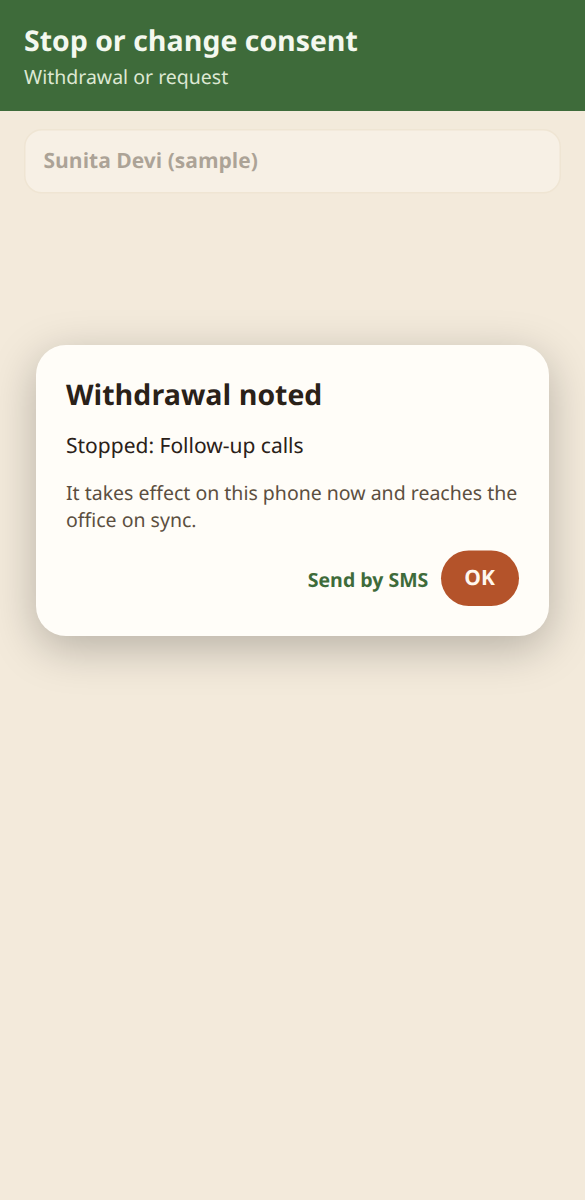
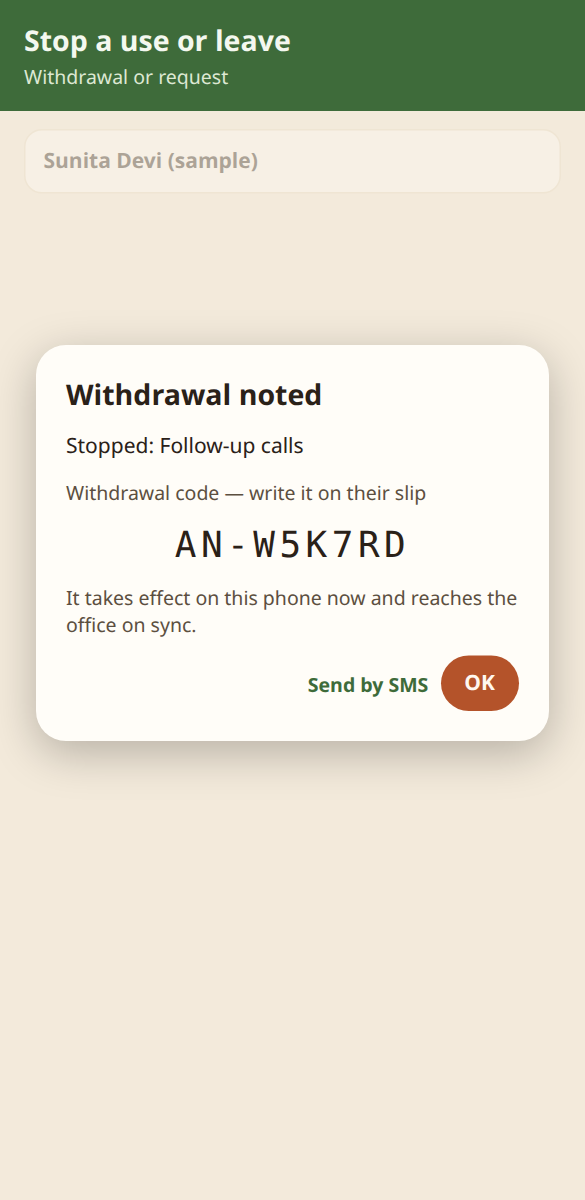
Guide and QA: renamed field screens, withdrawal code, rejoin rule
"Stop a use or leave" and "Add a use or rejoin" replace the old names;
Withdrawal noted shows a withdrawal code and SMS goes to the guardian for
a child; leaving greys every use; Find offers both actions; slip box at the
bottom; Yes/No to all and the rejoin rule. QA: WD-01, WD-11 and AP cases
updated; WD-13..16, AP-08, AP-09 added. Base wireframes redrawn.

Claude-Session: https://claude.ai/code/session_019TCFjXTZe15Bd8jrQ1rU3g

Changed region(s): [[0.0308, 0.4008, 0.9538, 0.6475], [0.1538, 0.0308, 0.6154, 0.0617]]

diff --git a/tools/guide_wireframes.py b/tools/guide_wireframes.py
@@ -118,8 +118,8 @@ SCREENS = {
 <div class="card"><div class="row">3 records on this phone<span class="st">Sync</span></div><div class="muted">Sync when you have data</div></div>
 <div class="muted">Programme</div><div class="card" style="flex-direction:row;justify-content:space-between"><span>Village Health Camps</span><span style="color:#B4532A;font-size:13px">Change</span></div>
 <div class="tile"><span class="ic">+</span><div><div class="t">Take new consent</div><div class="d">Self, assisted or guardian</div></div></div>
-<div class="tile"><span class="ic">×</span><div><div class="t">Stop or change consent</div><div class="d">Told in person, slip or letter</div></div></div>
-<div class="tile"><span class="ic">↺</span><div><div class="t">Ask for one more purpose</div><div class="d">Existing beneficiary, new use</div></div></div>
+<div class="tile"><span class="ic">×</span><div><div class="t">Stop a use or leave</div><div class="d">In person, slip or letter</div></div></div>
+<div class="tile"><span class="ic">↺</span><div><div class="t">Add a use or rejoin</div><div class="d">A new use, a change of mind, or rejoining</div></div></div>
 <div class="tile"><span class="ic">⌕</span><div><div class="t">Find beneficiary</div><div class="d">See consent status offline</div></div></div>
 </div>""",
     "a1-who": bar("Who is giving consent?", "Step 1 of 3") + f"""<div class="body">{who("self")}
@@ -230,29 +230,30 @@ SCREENS = {
 <div class="h">Gender (optional)</div><div class="chips"><span class="chip on">Female</span><span class="chip">Male</span><span class="chip">Other</span><span class="chip">Prefer not to say</span></div>
 <div class="h">Occupation (optional)</div><div class="chips"><span class="chip">Farming or farm labour</span><span class="chip on">Daily wage work</span><span class="chip">Homemaker</span><span class="chip">Self-employed</span><span class="chip">Other</span></div>
 <div class="note">These are listed in the notice under “What we collect”. Reports show only totals, never one person's answers.</div></div>""" + foot("Continue"),
-    "f1-withdraw": bar("Stop or change consent", "Withdrawal or request") + """<div class="body">
+    "f1-withdraw": bar("Stop a use or leave", "Withdrawal or request") + """<div class="body">
 <div class="field"><span>Receipt code, name, ID or phone</span><b>AN-7K2Q9C</b></div>
-<div class="check"><span class="box on"></span><div>They gave a paper slip or letter</div></div>
-<div class="field"><span>Paper slip number (optional)</span><b>SLIP-0042</b></div>
 <div class="card" style="border-color:#B4532A"><b>Sunita Devi (sample)</b><div class="muted">AC-4XK2M9PQ · AN-7K2Q9C</div></div>
 <div class="row" style="font-weight:400"><span class="muted">Switch off what they no longer agree to</span><span class="link">Stop all</span></div>
 <div class="p"><div><div class="t">Follow-up calls</div><div class="d" style="color:#9E2F24">Will stop</div></div><span class="sw"></span></div>
 <div class="p"><div><div class="t">Photos and stories</div><div class="d">On</div></div><span class="sw on"></span></div>
 <div class="p req"><div><div class="t">🔒 Health screening</div><div class="d">Needed for the programme. To stop it, they leave the programme.</div></div></div>
 <div class="out" style="color:#9E2F24;border-color:#9E2F24">⎋ Leave the programme</div>
-<div class="muted">Other requests: See or correct my data · Delete my data · Complaint</div></div>""" + foot("Stop 1 use for Sunita Devi (sample)"),
-    "f2-leave": bar("Stop or change consent", "Withdrawal or request") + """<div class="body" style="opacity:.35">
+<div class="muted">Other requests: See or correct my data · Delete my data · Complaint</div>
+<div class="check"><span class="box on"></span><div>They gave a paper slip or letter</div></div>
+<div class="field"><span>Paper slip number (optional)</span><b>SLIP-0042</b></div></div>""" + foot("Stop 1 use for Sunita Devi (sample)"),
+    "f2-leave": bar("Stop a use or leave", "Withdrawal or request") + """<div class="body" style="opacity:.35">
 <div class="card"><b>Sunita Devi (sample)</b><div class="muted">AC-4XK2M9PQ · AN-7K2Q9C</div></div>
 <div class="p"><div><div class="t">Follow-up calls</div></div><span class="sw on"></span></div></div>
 <div style="position:absolute;left:24px;right:24px;top:230px;background:#FFFDF8;border-radius:20px;padding:20px;display:flex;flex-direction:column;gap:12px;box-shadow:0 8px 30px rgba(0,0,0,.25)">
 <div style="font-size:19px;font-weight:600">Leave the programme?</div>
 <div style="font-size:14px">This stops every use of their data in this programme, essential ones too. The programme stops serving them. Do they still want this?</div>
 <div class="row" style="justify-content:flex-end"><span class="link" style="text-decoration:none">Cancel</span><span class="cta" style="padding:9px 16px;font-size:14px">Yes, leave</span></div></div>""",
-    "f3-noted": bar("Stop or change consent", "Withdrawal or request") + """<div class="body" style="opacity:.35">
+    "f3-noted": bar("Stop a use or leave", "Withdrawal or request") + """<div class="body" style="opacity:.35">
 <div class="card"><b>Sunita Devi (sample)</b></div></div>
 <div style="position:absolute;left:24px;right:24px;top:230px;background:#FFFDF8;border-radius:20px;padding:20px;display:flex;flex-direction:column;gap:12px;box-shadow:0 8px 30px rgba(0,0,0,.25)">
 <div style="font-size:19px;font-weight:600">Withdrawal noted</div>
 <div style="font-size:14px">Stopped: Follow-up calls</div>
+<div class="muted">Withdrawal code — write it on their slip</div><div class="code" style="font-size:24px">AN-W5K7RD</div>
 <div class="muted">It takes effect on this phone now and reaches the office on sync.</div>
 <div class="row" style="justify-content:flex-end"><span class="link" style="text-decoration:none">Send by SMS</span><span class="cta" style="padding:9px 16px;font-size:14px">OK</span></div></div>""",
 }

diff --git a/docs/guide/product-guide.md b/docs/guide/product-guide.md
@@ -71,8 +71,8 @@ Each role sees only its own menus. A field worker can't open the web console at 
 | Extra questions | "About the person" screen, only when the programme switches questions on |
 | Receipt code | A code like `AN-7K2Q9C` to write on the slip; optional SMS receipt from the worker's phone |
 | Server-sent code | After Save, online: the server texts a code to the person's phone; the worker never sees it |
-| **Stop or change consent** | In person, or with a paper slip or letter: switch off any of the uses that are on (or Stop all), **leave the programme**, or log a request (see or correct data, delete data, complaint) |
-| **Ask for one more purpose** | A later visit: a new use, a use they withdrew or refused (**Ask again**), or rejoining after leaving; uses already agreed are not asked again |
+| **Stop a use or leave** | In person, or with a paper slip or letter: switch off any of the uses that are on (or Stop all / Keep all), **leave the programme**, or log a request (see or correct data, delete data, complaint) |
+| **Add a use or rejoin** | A later visit: a new use, a use they withdrew or refused (**Ask again**), or rejoining after leaving; uses already agreed are not asked again |
 | **Find beneficiary** | Offline search by name, ID, receipt code (any consent taken on this phone, or a person's latest code if they were enrolled on another phone) or **phone number**: their own, or their parent's or guardian's, so one family phone finds the parent and the children. Each result says whose number matched; shows each use's status; tapping a person opens the withdrawal screen |
 | Offline first | Everything is saved on the phone (encrypted) and syncs when online; no duplicates even if sync is cut off |
 | App lock and lost phone | The app locks after 5 minutes away or on restart; 5 wrong PINs sign out and wipe the phone's data. An admin or programme manager can mark a phone lost; it wipes itself on its next contact |
@@ -240,7 +240,7 @@ No internet, or the programme set to "Worker's phone": the Confirm screen asks f
 
 ### Extra questions and withdrawal
 
-| About the person | Stop or change consent | Leave the programme | Withdrawal noted |
+| About the person | Stop a use or leave | Leave the programme | Withdrawal noted |
 | --- | --- | --- | --- |
 | <img src="wireframes/e1-about.png" width="200" alt="Extra questions after the choices"> | <img src="wireframes/f1-withdraw.png" width="200" alt="Find the person, switch off uses, leave, or other requests"> | <img src="wireframes/f2-leave.png" width="200" alt="Confirm leaving the programme"> | <img src="wireframes/f3-noted.png" width="200" alt="What was stopped, with Send by SMS"> |
 
@@ -271,7 +271,7 @@ Each step can be repeated safely: a sync cut off halfway resumes without duplica
 
 | How it arrives | Phase 1 | What happens |
 | --- | --- | --- |
-| Told to a field worker | Yes | "Stop or change consent" on the phone; a withdrawal takes effect on the phone at once, and after sync it is signed and listed in the inbox as a closed request |
+| Told to a field worker | Yes | "Stop a use or leave" on the phone; a withdrawal takes effect on the phone at once, and after sync it is signed and listed in the inbox as a closed request |
 | Paper slip or letter | Yes | Same screen, with the slip number, which is kept on the inbox request |
 | SMS `STOP` / `STOP <code>` / `STOP <n>` | Built; needs an inbound number | Withdraws all optional uses, that consent, or use number n; ambiguous ones go to the inbox. `DATA` opens an access request; anything else a complaint |
 | Missed call | Built; needs a missed-call number | Opens a withdrawal request in the inbox |
@@ -281,22 +281,24 @@ Each step can be repeated safely: a sync cut off halfway resumes without duplica
 
 ```mermaid
 flowchart TD
-  A["Stop or change consent<br/>(tick: paper slip or letter)"] --> F["Search: name, ID, receipt code<br/>or phone (own or guardian's)"]
+  A["Stop a use or leave<br/>(tick: paper slip or letter)"] --> F["Search: name, ID, receipt code<br/>or phone (own or guardian's)"]
   F -- "Found on the phone" --> W{"What do they want?"}
   F -- "Not on the phone" --> R["Saved as a request with the code<br/>→ inbox; the code finds the person"]
   W -- "Switch off one or more uses<br/>(or Stop all)" --> L["Save: Stop N uses for the person"]
   W -- "Leave the programme" --> LV["Confirm: services stop<br/>→ every use, essential too"]
   W -- "See or correct / Delete /<br/>Complaint" --> Q["Request → inbox, due in 30 days"]
-  L --> N["Withdrawal noted:<br/>what stopped, Send by SMS"]
+  L --> N["Withdrawal noted:<br/>what stopped, withdrawal code,<br/>Send by SMS"]
   LV --> N
   N -- "sync" --> S["Signed withdrawal on the server:<br/>consent check says no;<br/>closed request in the inbox<br/>with the slip number"]
   S --> M["SMS withdrawal confirmation<br/>(once SMS is set up)"]
 ```
 
 - **Essential and optional uses.** An essential use is the core service the person enrols for (for example Health screening); optional uses are extras such as follow-up calls, photos and stories, or research. Optional uses are switches. An essential use is shown locked: to stop it, the person **leaves the programme**.
-- **Leaving the programme** (DPDP Act s.6(4): any consent can be withdrawn) stops every use, essential ones too, after the worker confirms with them that the programme will stop serving them. Once nothing is on in any programme, the person's record is marked **Relationship ended**, which starts the retention clock; erasing at the end of it is Phase 2 (staff erase by hand until then). Rejoining later is done with **Ask for one more purpose**, which also clears Relationship ended.
+- **Leaving the programme** (DPDP Act s.6(4): any consent can be withdrawn) stops every use, essential ones too, after the worker confirms with them that the programme will stop serving them. Once nothing is on in any programme, the person's record is marked **Relationship ended**, which starts the retention clock; erasing at the end of it is Phase 2 (staff erase by hand until then). While leaving is chosen, every use shows "Will stop" and the switches are greyed; **Don't leave** undoes it. Rejoining later is done with **Add a use or rejoin**, which also clears Relationship ended.
 - **Delete my data** is separate: the office keeps only what the law needs, erases the rest and closes the request.
-- The Save button names what will happen ("Stop 2 uses for Radha"), and **Withdrawal noted** lists what stopped, with **Send by SMS** from the worker's phone.
+- The Save button names what will happen ("Stop 2 uses for Radha"), and **Withdrawal noted** lists what stopped with a **withdrawal code** to write on their slip, and **Send by SMS** from the worker's phone with the same code. For a child or an adult with a guardian the SMS goes to the guardian's number.
+- The "paper slip or letter" box is at the bottom, just above Save.
+- In **Find beneficiary**, tapping a person offers **Stop a use or leave** or **Add a use or rejoin**.
 - If nothing is on, there is nothing to stop; other requests can still be logged.
 - The phone knows everyone in the programme it has downloaded, so a slip enrolled on another phone is still found by its receipt code (the person's latest one).
 - **By phone number:** type the number (with or without +91, or just its last 4 or more digits). It finds the person whose number it is and every child or guarded adult whose parent or guardian has that number; each result says "Their number" or "Guardian's number (Mother)". The guardian's number is kept on the phone, encrypted, like the person's own.
@@ -315,7 +317,7 @@ flowchart LR
 
 ### Add a use later
 
-When a programme adds a new use, the worker opens **Ask for one more purpose**, picks the person, reads only the new part of the notice, and records Yes or No. Uses already agreed are shown and not asked again. A use they withdrew or refused can be asked again (**Ask again**), and someone who left the programme can **rejoin** it. With a phone, the code follows the same routes (server code after Save, or the worker's phone plus voice); with no phone, the voice "haan" is the proof; a witness is asked if the person needs help reading. A child, or anyone who consented through a guardian, needs a new consent with the guardian instead.
+When a programme adds a new use, the worker opens **Add a use or rejoin**, picks the person, reads only the new part of the notice, and records Yes or No. Uses already agreed are shown and not asked again. A use they withdrew or refused can be asked again (**Ask again**), and someone who left the programme can **rejoin** it. When rejoining, the other uses can be answered only after Yes to rejoining; if they say No, nothing else applies and there is nothing to save. With two or more uses, **Yes to all** and **No to all** (equal weight) work once every part has been read to them. With a phone, the code follows the same routes (server code after Save, or the worker's phone plus voice); with no phone, the voice "haan" is the proof; a witness is asked if the person needs help reading. A child, or anyone who consented through a guardian, needs a new consent with the guardian instead.
 
 ## Web console journeys
 
@@ -402,7 +404,7 @@ Green: built. Yellow: partly built. Grey: later phases.
 | Verify | **Built** | Server SMS code; worker's phone + voice; confirm later; evidence only. Missed-call verification: **Phase 2** |
 | Receipt | **Built** | Receipt code for the slip; SMS receipt where SMS is set up |
 | Log a withdrawal | **Built** | Also access, correction, erasure, complaint requests |
-| Ask for one more purpose | **Built** | |
+| Ask for one more purpose ("Add a use or rejoin") | **Built** | Also asks again about withdrawn or refused uses, and rejoining |
 | Renew consent at 18 | **Phase 2** | The server already flags who turned 18 |
 
 ### NGO console

diff --git a/docs/guide/qa-test-cases.md b/docs/guide/qa-test-cases.md
@@ -128,7 +128,7 @@ Use fictional names only, for example "Test Person 01". Record the receipt code 
 | FI-01 | Find offline | Find beneficiary → search by name, then ID (offline); then by receipt code of a consent taken **on this phone** | Person found; each use's status shown. A downloaded person (consent taken on another phone) is found by their latest receipt code too | P0 |
 | FI-02 | Find by phone | Find beneficiary → type a person's mobile number, then the same with +91, then only its last 4 digits | The person is found each time, labelled "Their number". Three digits or fewer search names only | P0 |
 | FI-03 | Find by guardian's phone | Take a parent consent for a child with the mother's number (journey C) → Find → type the mother's number. Repeat on another phone after both sync | The child is found, labelled "Guardian's number (Mother)"; if the mother is also enrolled, both appear. Works on the other phone too | P0 |
-| WD-01 | Withdraw all optional uses | Stop or change consent → find the person → **Stop all** → Save ("Stop 3 uses for …") | Phone shows those uses withdrawn at once; after sync, the console shows them withdrawn; essential use still granted | P0 |
+| WD-01 | Withdraw all optional uses | Stop a use or leave → find the person → **Stop all** → Save ("Stop 3 uses for …") | Phone shows those uses withdrawn at once; after sync, the console shows them withdrawn; essential use still granted | P0 |
 | WD-02 | Withdraw some uses | Switch off "Photos and stories" and "Follow-up calls", leave "Anonymised research" on | Save reads "Stop 2 uses for …"; only those two withdrawn | P0 |
 | WD-03 | Paper slip, person not on phone | Tick "They gave a paper slip or letter" → enter a code not on this phone → "Stop all optional uses" | "Not on this phone. It goes to the office inbox with the code"; the request appears **Open** in the inbox | P0 |
 | WD-04 | Other requests | "See or correct my data", "Delete my data", "Complaint" | Inbox shows them as Data access request, Erasure and Grievance, each with a due date 30 days out | P0 |
@@ -138,15 +138,21 @@ Use fictional names only, for example "Test Person 01". Record the receipt code 
 | WD-08 | Nothing left to stop | Find a person who has left the programme (nothing on) | Note "Nothing is on for this person, so there is nothing to stop."; no switches; Save is disabled until another request is chosen | P1 |
 | WD-09 | Essential use is locked | Find a person with Health screening on | Health screening shows a lock and "Needed for the programme. To stop it, they leave the programme." No switch | P0 |
 | WD-10 | Leave the programme | Find a person → **Leave the programme** → read the warning → **Yes, leave** → Save → Sync | Every use, Health screening too, shows withdrawn on the phone and in the console; the person's record shows **Relationship ended** today; the inbox request's resolution starts "Left the programme". **Cancel** in the warning changes nothing | P0 |
-| WD-11 | Withdrawal noted and SMS | After WD-02 | "Withdrawal noted" lists the stopped uses; **Send by SMS** opens your SMS app with the message in the person's language; no button if they have no phone | P1 |
+| WD-11 | Withdrawal noted and SMS | After WD-02 | "Withdrawal noted" lists the stopped uses and a withdrawal code (AN-…); **Send by SMS** opens your SMS app with the code and message in the person's language; no button if neither they nor a guardian have a phone. After sync, the console's withdrawal consent record has the same code | P1 |
 | WD-12 | Delete my data explained | Find a person → Other requests | "Delete my data" says the office keeps only what the law needs and that services may stop | P2 |
-| AP-01 | Add a use later | Console: add a new optional purpose, approve its record of processing, publish a new notice version → app: Sync → Ask for one more purpose → pick a person | Past decisions shown "not asked again"; only the new use is asked; "I have read it to them" before Yes/No. (Hindi text needs the new version's Hindi translation reviewed) | P1 |
+| WD-13 | Withdrawal for a child | Find a child (parent consent, journey C) → stop a use → Save | **Send by SMS** goes to the parent's number | P1 |
+| WD-14 | Leave, then undo | Find a person → Leave the programme → Yes, leave → look at the uses → **Don't leave** | While leaving: every use shows "Will stop", switches greyed, warning line. After Don't leave: switches work again and Save is off | P1 |
+| WD-15 | Stop all / Keep all | Find a person with 2+ optional uses on → **Stop all** → **Keep all** | Stop all switches all off and the link becomes Keep all; Keep all switches them back on | P2 |
+| WD-16 | Find offers both actions | Find beneficiary → tap a person | A choice: **Stop a use or leave** / **Add a use or rejoin**; each opens for that person | P1 |
+| AP-01 | Add a use later | Console: add a new optional purpose, approve its record of processing, publish a new notice version → app: Sync → Add a use or rejoin → pick a person | Past decisions shown "not asked again"; only the new use is asked; "I have read it to them" before Yes/No. (Hindi text needs the new version's Hindi translation reviewed) | P1 |
 | AP-02 | Add a use, offline | As AP-01, offline, person has a phone | Code from your phone + voice "haan" required before Save | P1 |
 | AP-03 | Add a use, no phone | Person without a phone | Voice "haan" required | P1 |
 | AP-04 | Add a use, needs help | Person who needs help reading | Witness name required | P1 |
 | AP-05 | Add a use, child | A child consented through a parent | "A guardian must consent for this person. Take a new consent with the guardian." | P1 |
-| AP-06 | Ask again | After WD-02 → Ask for one more purpose → the same person | The two withdrawn uses show "Ask again"; "Anonymised research" is under "Already agreed"; Yes switches a use back on after sync | P1 |
-| AP-07 | Rejoin after leaving | After WD-10 → Ask for one more purpose → the same person | "Rejoin the programme: Health screening" is asked; Yes and Sync turn it back on and clear Relationship ended in the console | P1 |
+| AP-06 | Ask again | After WD-02 → Add a use or rejoin → the same person | The two withdrawn uses show "Ask again"; "Anonymised research" is under "Already agreed"; Yes switches a use back on after sync | P1 |
+| AP-07 | Rejoin after leaving | After WD-10 → Add a use or rejoin → the same person | "Rejoin the programme: Health screening" is asked; Yes and Sync turn it back on and clear Relationship ended in the console | P1 |
+| AP-08 | Rejoin: other uses wait | After WD-10 → Add a use or rejoin → tap No on "Rejoin the programme" | The other uses can't be answered ("Answer Rejoin the programme first"); note "They do not want to rejoin… Nothing to save"; Save off | P1 |
+| AP-09 | Yes to all / No to all | A person with 2+ uses to ask → tick "I have read it to them" on each → **Yes to all**, then **No to all** | The buttons stay off until every part is read; each sets every answer; Save works for either (except No to all while rejoining, as AP-08) | P2 |
 
 ## 8. Web console
 
